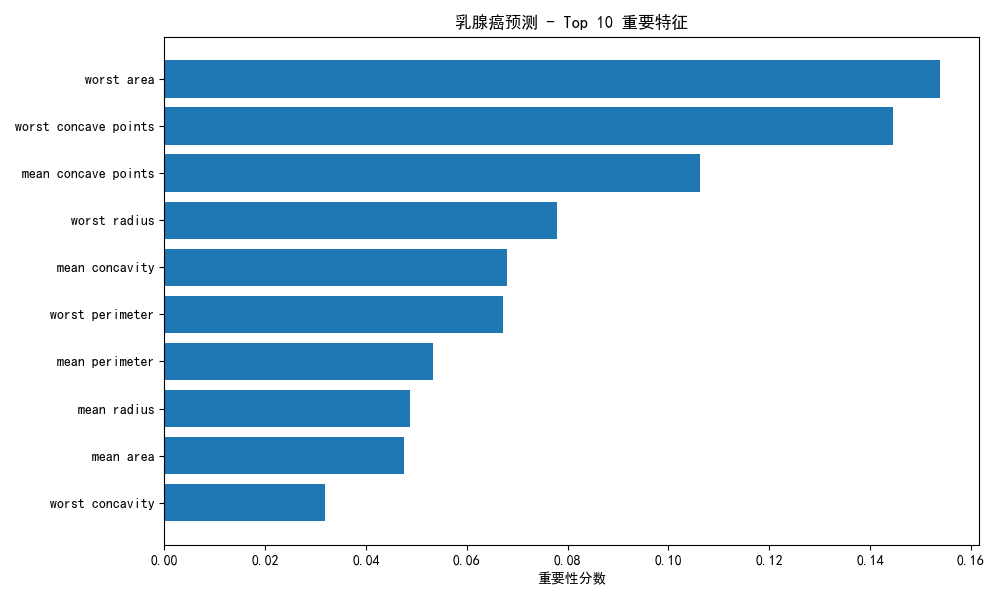
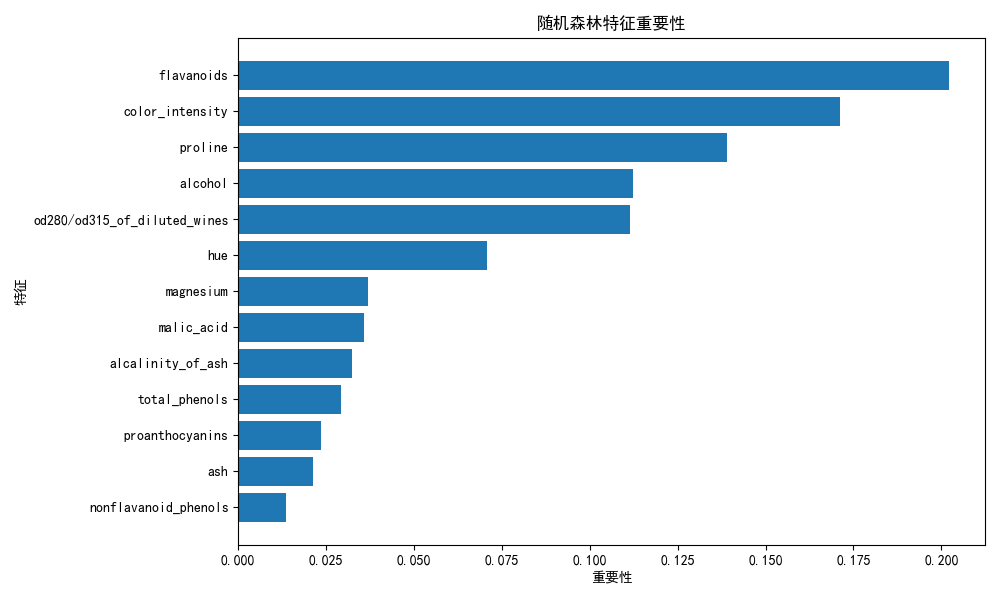
day12 model comparison

diff --git a/day12_model_comparison.py b/day12_model_comparison.py
@@ -1,0 +1,145 @@
+import pandas as pd
+from sklearn.datasets import load_wine
+from sklearn.model_selection import train_test_split
+from sklearn.preprocessing import StandardScaler
+
+wine = load_wine()
+
+x = pd.DataFrame(wine.data,columns=wine.feature_names)
+y = wine.target
+
+print("数据维度:",x.shape)
+print("类别名称:",wine.target_names)
+print("前5行数据:")
+print(x.head())
+
+###划分训练集和测试集
+x_train,x_test,y_train,y_test = train_test_split(
+    x,
+    y,
+    test_size=0.2,
+    random_state=42
+)
+
+print("训练集数量:",len(x_train))
+print("测试集数量:",len(y_test))
+
+###标准化数据
+scaler = StandardScaler()
+
+x_train_scaled = scaler.fit_transform(x_train)
+x_test_scaled = scaler.transform(x_test)
+###训练集用 fit_transform;测试集只用 transform;测试集不能参与标准化规则的学习，否则会数据泄露
+print("标准化完成")
+
+###导入多个模型
+from sklearn.linear_model import LogisticRegression
+from sklearn.tree import DecisionTreeClassifier
+from  sklearn.ensemble import RandomForestClassifier
+from  sklearn.neighbors import KNeighborsClassifier
+
+from sklearn.metrics import accuracy_score,classification_report,confusion_matrix
+
+###创建模型列表
+models = {
+    "逻辑回归":LogisticRegression(max_iter=1000),
+    "决策树":DecisionTreeClassifier(random_state=42),
+    "随机森林":RandomForestClassifier(n_estimators=100,random_state=42),
+    "KNN":KNeighborsClassifier(n_neighbors=5)
+}
+
+###循环训练和评估模型
+model_names = []
+accuracies = []
+
+for name,model in models.items():
+    print("==========", name, "==========")
+
+    model.fit(x_train_scaled,y_train)
+
+    y_pred = model.predict(x_test_scaled)
+
+    acc  = accuracy_score(y_test,y_pred)
+
+    print("准确率:",acc)
+    print("分类报告:")
+    print(classification_report(y_test,y_pred,target_names=wine.target_names))
+
+    model_names.append(name)
+    accuracies.append(acc)
+
+###画模型准确率对比图
+import matplotlib.pyplot as plt
+
+plt.rcParams["font.sans-serif"] = ["SimHei"]
+plt.rcParams["axes.unicode_minus"] = False
+
+plt.figure(figsize=(8,5))
+
+plt.bar(model_names,accuracies)
+
+plt.title("不同分类模型准确率对比")
+plt.xlabel("模型")
+plt.ylabel("准确率")
+
+plt.ylim(0,1.1)###限制Y轴的显示范围：从0到1.1
+
+for i,acc in enumerate(accuracies):
+    plt.text(i,acc+0.02,f"{acc:.2f}",ha="center")
+
+plt.tight_layout()
+plt.savefig("model_accuracy_comparison.png")
+plt.show()
+
+###找出表现最好的模型
+best_index = accuracies.index(max(accuracies))
+best_model_name = model_names[best_index]
+best_accuracy =  accuracies[best_index]
+
+print("表现最好的模型:",best_model_name)
+print("最高准确率:",best_accuracy)
+
+###单独测试随机森林的重要特征
+rf_model = RandomForestClassifier(n_estimators=100,random_state=42)
+rf_model.fit(x_train,y_train)
+
+feature_importance =pd.DataFrame({
+    "特征":x.columns,###`x.columns`就是 wine 数据集 13 个特征名字
+    "重要性":rf_model.feature_importances_
+})
+
+feature_importance = feature_importance.sort_values(
+    by="重要性",
+    ascending=False###降序排序，从大到小
+)
+
+print("随机森林特征重要性:")
+print(feature_importance)
+
+###画特征重要性图
+plt.figure(figsize=(10,6))
+
+plt.barh(feature_importance["特征"],feature_importance["重要性"])
+
+plt.title("随机森林特征重要性")
+plt.xlabel("重要性")
+plt.ylabel("特征")
+
+plt.gca().invert_yaxis()###最重要的特征显示在图表最顶端，越往下越不重要
+
+plt.tight_layout()
+plt.savefig("feature_importance.png")
+plt.show()
+
+
+
+
+
+
+
+
+
+
+
+
+

diff --git a/notes/day12.md b/notes/day12.md
@@ -1,0 +1,70 @@
+# Day 12 机器学习模型复盘与对比
+
+## 今天学了什么
+
+- 多个分类模型对比
+- 逻辑回归
+- 决策树
+- 随机森林
+- KNN
+- 准确率对比
+- 分类报告
+- 随机森林特征重要性
+
+## 不同模型的理解
+
+### 线性回归
+
+用于预测连续数值，比如房价、成绩、温度。
+
+### 逻辑回归
+
+用于分类问题，虽然名字里有回归，但主要用来判断类别。
+
+### 决策树
+
+像一连串判断规则，根据特征一步一步做决定。
+
+### 随机森林
+
+由很多棵决策树组成，通过集体投票提高稳定性和准确率。
+
+### KNN
+
+根据距离判断类别，一个样本属于哪类，取决于它附近的邻居。
+
+### KMeans
+
+无监督学习算法，不需要标签，让模型自己把相似样本分组。
+
+## 今天的模型对比结果
+
+- 逻辑回归准确率：1.00
+- 决策树准确率：0.94
+- 随机森林准确率：1.00
+- KNN 准确率：0.94
+
+## 表现最好的模型
+
+表现最好的模型是：逻辑回归
+
+
+## 随机森林特征重要性
+
+最重要的几个特征：
+
+- 特征 1：flavanoids
+- 特征 2：color_intensity
+- 特征 3：proline
+
+## 我的理解
+
+同一个数据集可以用不同模型训练。  
+模型之间没有绝对好坏，要看数据特点、任务类型、准确率、解释性和使用场景。
+
+
+## 明天要学什么
+
+- Week 02 项目准备
+- 选择一个完整机器学习项目
+- 整理项目结构
